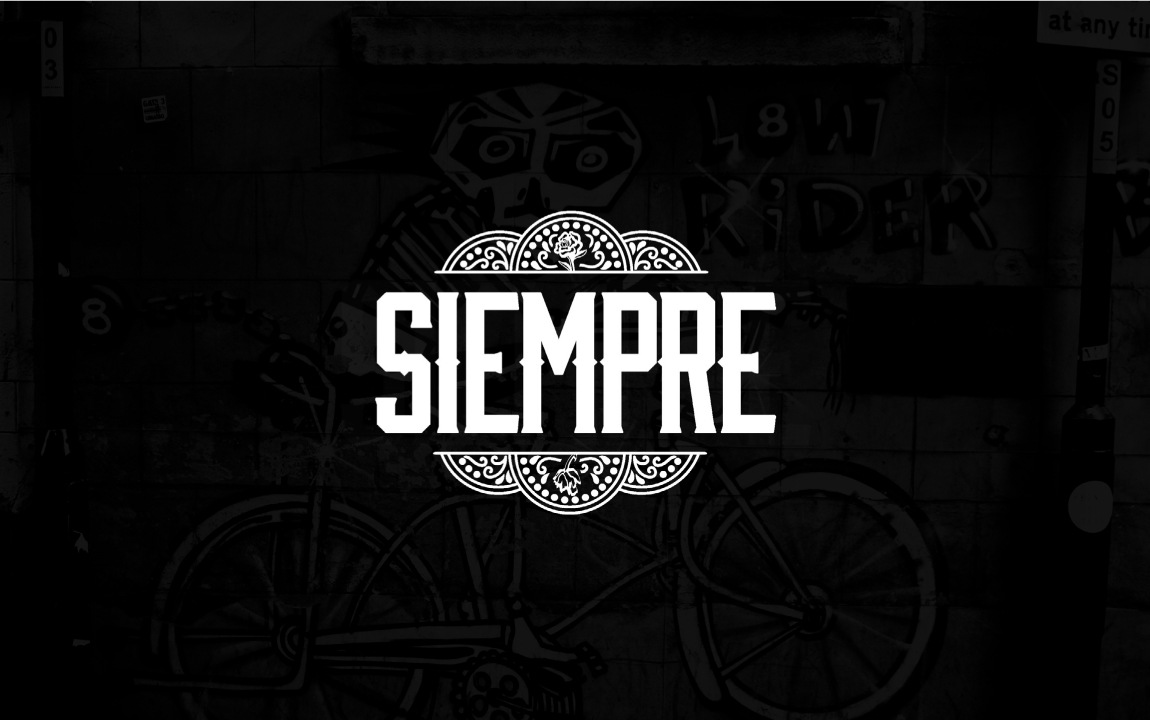
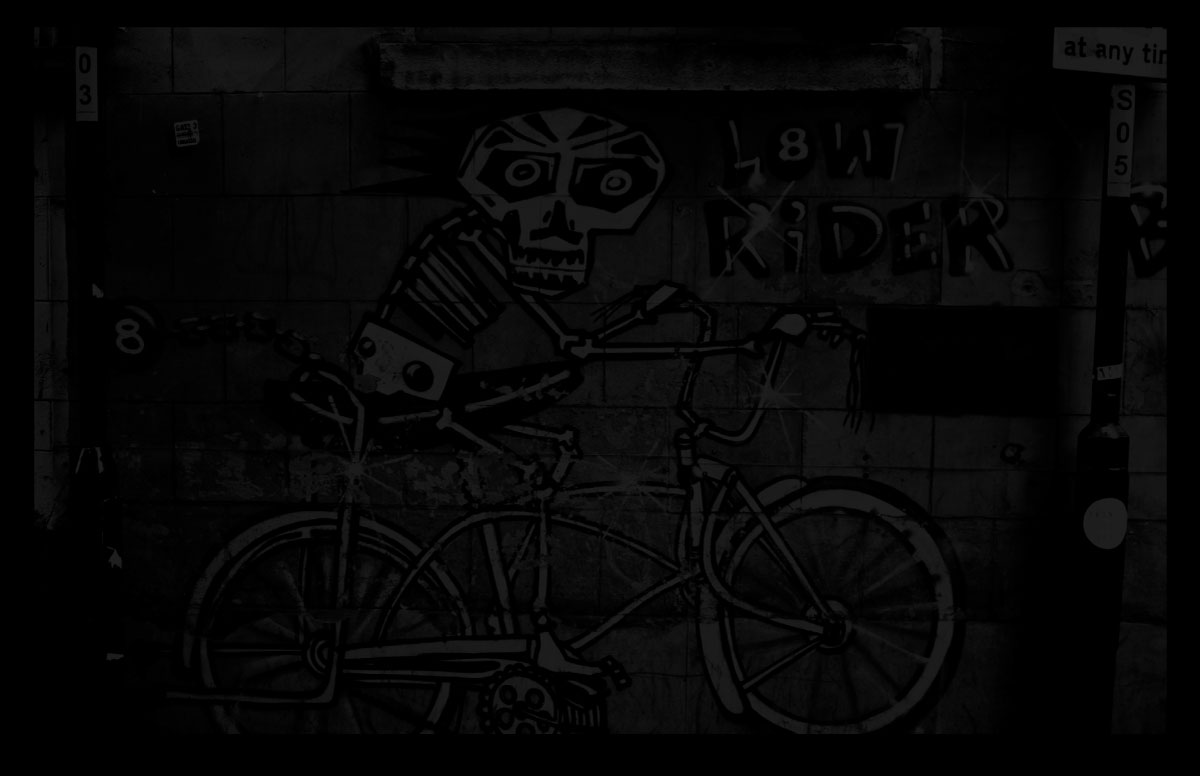
images / js interactive

diff --git a/js/jquery.interactive_bg.js b/js/jquery.interactive_bg.js
@@ -1,0 +1,152 @@
+/* ===========================================================
+ * jquery-interactive_bg.js v1.0
+ * ===========================================================
+ * Copyright 2014 Pete Rojwongsuriya.
+ * http://www.thepetedesign.com
+ *
+ * Create an interactive moving background
+ * that reacts to viewer's cursor
+ *
+ * https://github.com/peachananr/interactive_bg
+ * 
+ * License: GPL v3
+ *
+ * ========================================================== */
+
+!function($){
+  
+  var defaults = {
+    strength: 25,
+    scale: 1.05,
+    animationSpeed: "100ms",
+    contain: true,
+    wrapContent: false
+  };  
+  
+  $.fn.interactive_bg = function(options){
+    return this.each(function(){
+      var settings = $.extend({}, defaults, options),
+          el = $(this),
+          h = el.outerHeight(),
+          w = el.outerWidth(),
+          sh = settings.strength / h,
+          sw = settings.strength / w,
+          has_touch = 'ontouchstart' in document.documentElement;
+          
+      if (settings.contain == true) {
+        el.css({
+          overflow: "hidden"
+        });
+      }
+      // Insert new container so that the background can be contained when scaled.
+      
+      if (settings.wrapContent == false) {
+        el.prepend("<div class='ibg-bg'></div>")
+      } else {
+        el.wrapInner("<div class='ibg-bg'></div>")
+      }
+      
+      
+      
+      // Set background to the newly added container.
+      
+      if (el.data("ibg-bg") !== undefined) {
+        el.find("> .ibg-bg").css({
+          background: "url('" + el.data("ibg-bg") + "') no-repeat center center",
+          "background-size": "cover",
+        });
+      }
+      
+      el.find("> .ibg-bg").css({
+        width: w,
+        height: h
+      })
+      
+     
+      
+      if(has_touch || screen.width <= 699) {
+        // For Mobile
+        // Add support for accelerometeron mobile
+        window.addEventListener('devicemotion', deviceMotionHandler, false);
+
+          function deviceMotionHandler(eventData) {
+             var accX = Math.round(event.accelerationIncludingGravity.x*10) / 10,
+                 accY = Math.round(event.accelerationIncludingGravity.y*10) / 10,
+                 xA = -(accX / 10) * settings.strength,
+                 yA = -(accY / 10) * settings.strength,
+                 newX = -(xA*2),
+                 newY = -(yA*2);
+                 
+                 el.find("> .ibg-bg").css({
+                   "-webkit-transform": "matrix(" + settings.scale + ",0,0," + settings.scale + "," + newX + "," + newY + ")",
+                   "-moz-transform": "matrix(" + settings.scale + ",0,0," + settings.scale + "," + newX + "," + newY + ")",
+                   "-o-transform": "matrix(" + settings.scale + ",0,0," + settings.scale + "," + newX + "," + newY + ")",
+                   "transform": "matrix(" + settings.scale + ",0,0," + settings.scale + "," + newX + "," + newY + ")"
+                 });    
+
+          }
+        
+      } else {
+        // For Desktop 
+        // Animate only scaling when mouse enter
+        el.mouseenter(function(e) {
+          if (settings.scale != 1) el.addClass("ibg-entering")
+          el.find("> .ibg-bg").css({
+            "-webkit-transform": "matrix(" + settings.scale + ",0,0," + settings.scale + ",0,0)",
+            "-moz-transform": "matrix(" + settings.scale + ",0,0," + settings.scale + ",0,0)",
+            "-o-transform": "matrix(" + settings.scale + ",0,0," + settings.scale + ",0,0)",
+            "transform": "matrix(" + settings.scale + ",0,0," + settings.scale + ",0,0)",
+            "-webkit-transition": "-webkit-transform " + settings.animationSpeed + " linear",
+            "-moz-transition": "-moz-transform " + settings.animationSpeed + " linear",
+            "-o-transition": "-o-transform " + settings.animationSpeed + " linear",
+            "transition": "transform " + settings.animationSpeed + " linear"
+          }).on("transitionend webkitTransitionEnd oTransitionEnd MSTransitionEnd", function(){
+
+            // This will signal the mousemove below to execute when the scaling animation stops
+            el.removeClass("ibg-entering")
+          });
+        }).mousemove(function(e){
+          // This condition prevents transition from causing the movement of the background to lag
+          if (!el.hasClass("ibg-entering") && !el.hasClass("exiting")) {
+            var pageX = e.pageX || e.clientX,
+                pageY = e.pageY || e.clientY,
+                pageX = (pageX - el.offset().left) - (w / 2),
+                pageY = (pageY - el.offset().top) - (h / 2),
+                newX = ((sw * pageX)) * - 1,
+                newY = ((sh * pageY)) * - 1;
+            // Use matrix to move the background from its origin
+            // Also, disable transition to prevent lag
+            el.find("> .ibg-bg").css({
+              "-webkit-transform": "matrix(" + settings.scale + ",0,0," + settings.scale + "," + newX + "," + newY + ")",
+              "-moz-transform": "matrix(" + settings.scale + ",0,0," + settings.scale + "," + newX + "," + newY + ")",
+              "-o-transform": "matrix(" + settings.scale + ",0,0," + settings.scale + "," + newX + "," + newY + ")",
+              "transform": "matrix(" + settings.scale + ",0,0," + settings.scale + "," + newX + "," + newY + ")",
+              "-webkit-transition": "none",
+              "-moz-transition": "none",
+              "-o-transition": "none",
+              "transition": "none"
+            });
+          }
+        }).mouseleave(function(e) {
+          if (settings.scale != 1) el.addClass("ibg-exiting")
+          // Same condition applies as mouseenter. Rescale the background back to its original scale
+          el.addClass("ibg-exiting").find("> .ibg-bg").css({
+            "-webkit-transform": "matrix(1,0,0,1,0,0)",
+            "-moz-transform": "matrix(1,0,0,1,0,0)",
+            "-o-transform": "matrix(1,0,0,1,0,0)",
+            "transform": "matrix(1,0,0,1,0,0)",
+            "-webkit-transition": "-webkit-transform " + settings.animationSpeed + " linear",
+            "-moz-transition": "-moz-transform " + settings.animationSpeed + " linear",
+            "-o-transition": "-o-transform " + settings.animationSpeed + " linear",
+            "transition": "transform " + settings.animationSpeed + " linear"
+          }).on("transitionend webkitTransitionEnd oTransitionEnd MSTransitionEnd", function(){
+            el.removeClass("ibg-exiting")
+          });
+        });
+      }
+    });
+    
+  }
+  
+  
+}(window.jQuery);

diff --git a/index.html b/index.html
@@ -6,31 +6,25 @@
     <head>
         <meta charset="utf-8">
         <meta http-equiv="X-UA-Compatible" content="IE=edge,chrome=1">
-        <title>Demo - Simple parallax scrolling tutorial</title>
+        <title>Siempre Tequila</title>
         <meta name="description" content="">
         <meta name="viewport" content="width=device-width, initial-scale=1.0, maximum-scale=1.0" />
 
 		<link rel="author" href="https://plus.google.com/u/0/109859280204979591787/about"/>
 
-        <!-- Place favicon.ico and apple-touch-icon.png in the root directory -->
 
-		<!--
-			* This demo was prepared for you by Petr Tichy - Ihatetomatoes.net
-			* Want to see more similar demos and tutorials?
-			* Help by spreading the word about Ihatetomatoes blog.
-			* Facebook - https://www.facebook.com/ihatetomatoesblog
-			* Twitter - https://twitter.com/ihatetomatoes
-			* Google+ - https://plus.google.com/u/0/109859280204979591787/about
-		-->
 
         <link rel="stylesheet" href="css/normalize.css">
         <link rel="stylesheet" href="css/main.css">
         <script src="js/vendor/modernizr-2.7.1.min.js"></script>
-        <style type="text/css">
-			body {
-				font-family: 'Open Sans', sans-serif;
-			}
-		</style>
+          <script src="js/animations.js"></script>
+
+          	<script type="text/javascript" src="js/jquery.interactive_bg.js"></script>
+
+          	    	<script type="text/javascript">
+        $(".bg").interactive_bg();
+      </script>
+
     </head>
     <body class="loading">
         <!--[if lt IE 7]>
@@ -49,11 +43,21 @@
        	<main>
        		<section id="slide-0" class="homeSlide">
 	        	<div class="bcg">
-		        	<!-- <div class="hsContainer">
-			    		<div class="hsContent">
-				    		<h2>Simple parallax scrolling is...</h2>
-			    		</div>
-		        	</div> -->
+		        
+		        			<div class="container bg" data-ibg-bg="img/bcg_slide-0.jpg">
+		
+
+			<div class="menu">
+				<img src="img/logo
+				.png" class="logo">
+			</div>
+		
+    	<div class="main">
+    	  
+    	</div>
+
+		</div><!-- Container -->
+
 	        	</div>
 		    </section>
        	 

diff --git a/css/main.css b/css/main.css
@@ -180,7 +180,7 @@ main {
 	}
 
 /* Slide 0 */
-#slide-0 .bcg {background-image:url('../img/bcg_slide-0.jpg')}
+/*#slide-0 .bcg {background-image:url('../img/bcg_slide-0.jpg')}*/
 #slide-0 .hsContent {
     bottom: 200px;
     top: auto;
@@ -282,7 +282,7 @@ main {
 #slide-7 .bcg {
     background-image:url('../img/bcg_slide-7.jpg');
     background-position: center top;
-    background-size: contain;
+    background-size: cover;
     height: 100%;
     bottom: 0;
     width: 100%;
@@ -290,6 +290,50 @@ main {
 #slide-7 .hsContent {
     margin-left: -450px;
 }
+
+/*/////////////////////////////////////////////////////////////////////////////////////
+
+INTERACTIVE BACKGROUND
+
+/////////////////////////////////////////////////////////////////////////////////////
+*/
+
+body, html {
+      margin: 0;
+      -webkit-font-smoothing: antialiased;
+      text-align: center;
+      -webkit-transition: opacity 400ms;
+      -moz-transition: opacity 400ms;
+      transition: opacity 400ms;
+}
+
+
+.demo5 body {
+  width: 100%;
+  min-height: 100%;
+  position: absolute;
+}
+
+
+.demo5 .bg {
+  position: absolute;
+  height: 100%;
+  width: 100%;
+  z-index: 0;
+}
+
+ .menu {
+  position: relative;
+  top:20%;
+}
+img.logo {
+  width:500px;
+}
+
+.demo5 .ibg-bg {
+  position: absolute;
+}
+
 
 
 
